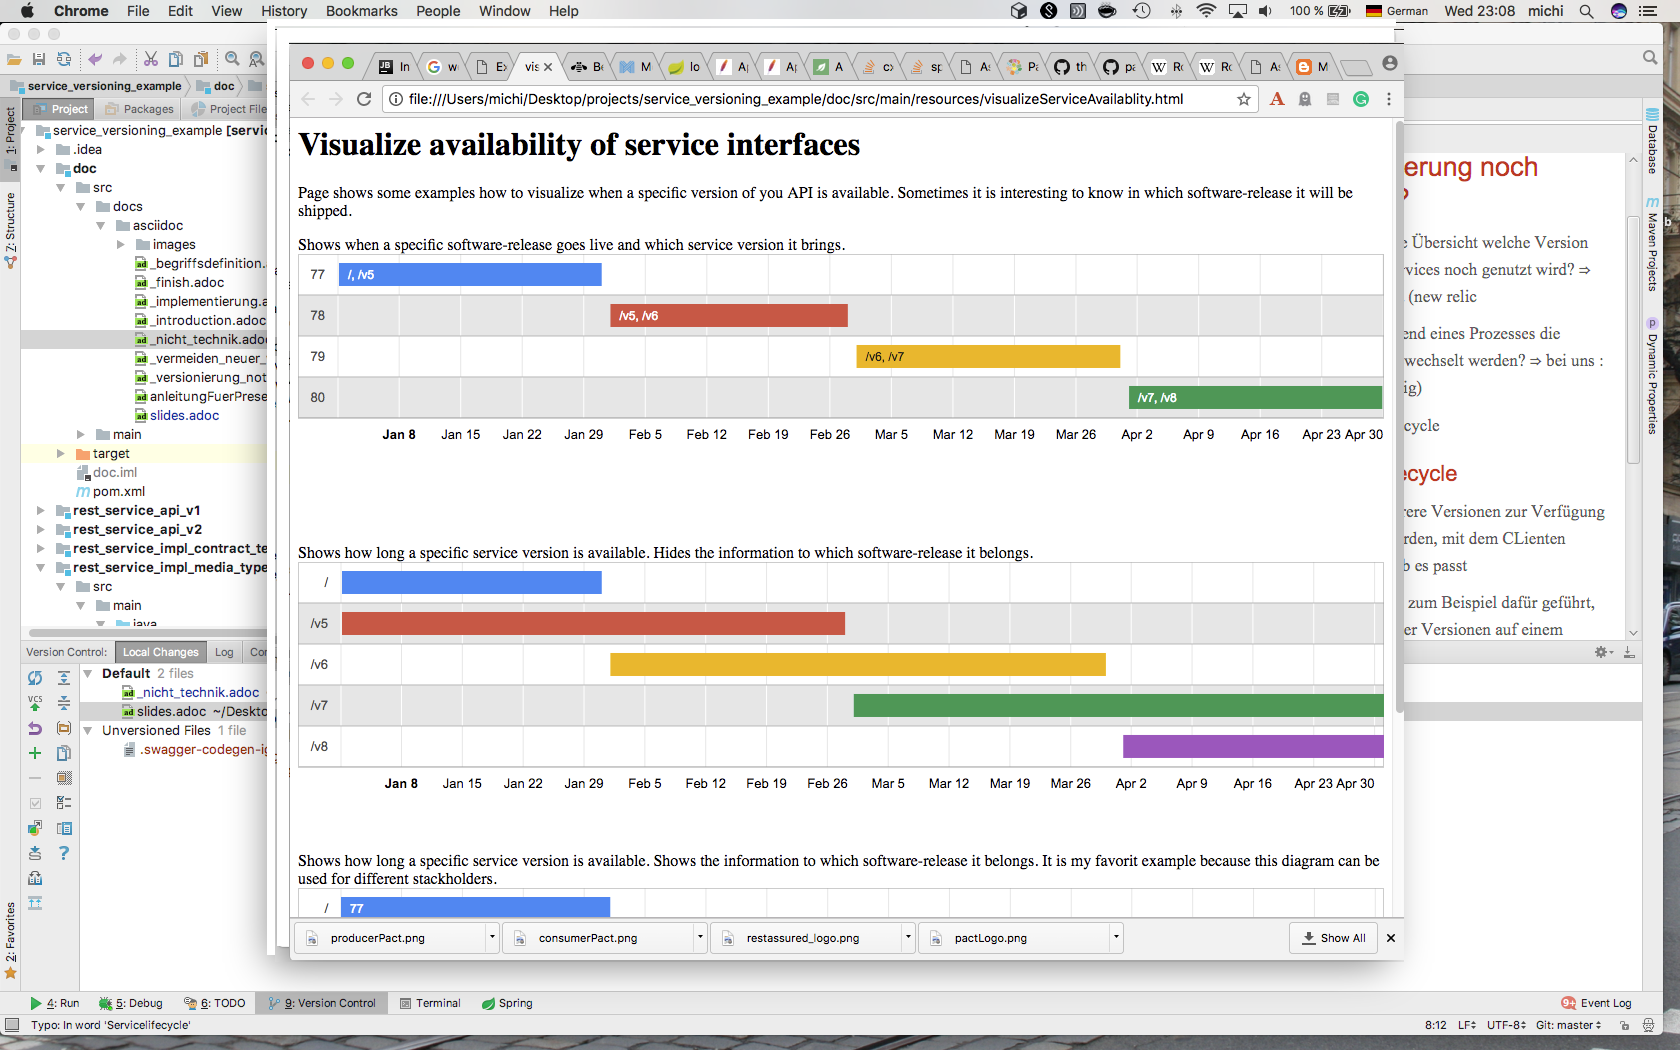
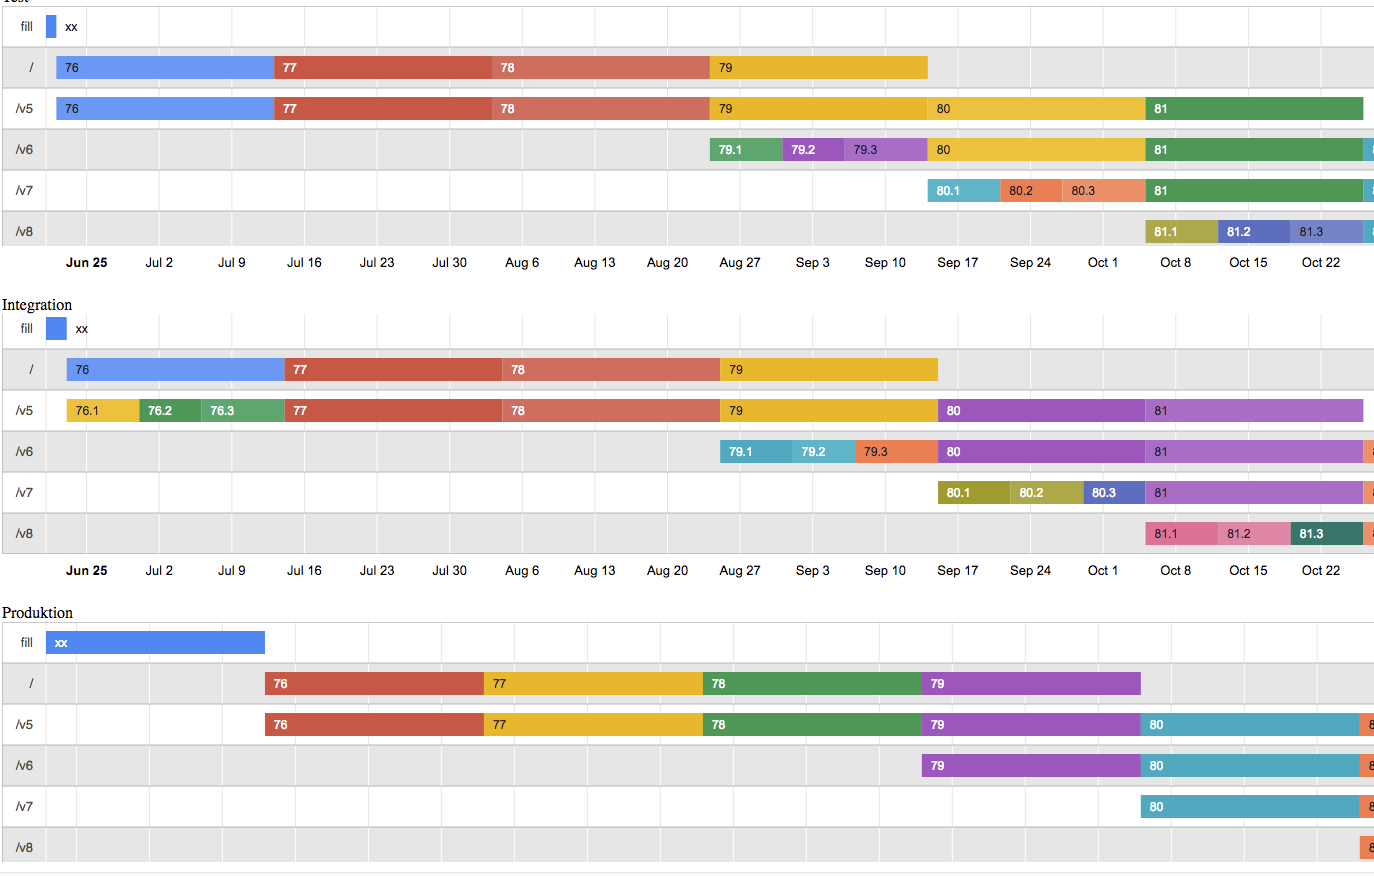
polishing

diff --git a/doc/src/main/resources/visualizeServiceAvailablity.html b/doc/src/main/resources/visualizeServiceAvailablity.html
@@ -5,49 +5,11 @@
         google.charts.load('current', {'packages': ['timeline']});
         google.charts.setOnLoadCallback(drawChart);
         function drawChart() {
-            draw1('eins');
-            draw2('zwei');
-            draw3('drei');
+            draw3('test');
+			drawTest('integration');
+			drawIntegration('produktion');
         }
 
-        function draw1(_environment) {
-            var container = document.getElementById(_environment);
-            var chart = new google.visualization.Timeline(container);
-            var dataTable = new google.visualization.DataTable();
-
-            dataTable.addColumn({type: 'string', id: 'release'});
-            dataTable.addColumn({type: 'string', id: 'available_versions'});
-            dataTable.addColumn({type: 'date', id: 'Start'});
-            dataTable.addColumn({type: 'date', id: 'End'});
-
-            dataTable.addRows([
-                ['77', '/, /v5', new Date("2017-01-01"), new Date("2017-01-31")],
-                ['78', '/v5, /v6', new Date("2017-02-01"), new Date("2017-02-28")],
-                ['79', '/v6, /v7', new Date("2017-03-01"), new Date("2017-03-31")],
-                ['80', '/v7, /v8', new Date("2017-04-01"), new Date("2017-04-30")]]);
-
-            chart.draw(dataTable);
-        }
-        function draw2(_environment) {
-            var container = document.getElementById(_environment);
-            var chart = new google.visualization.Timeline(container);
-            var dataTable = new google.visualization.DataTable();
-
-            dataTable.addColumn({type: 'string', id: 'release'});
-            dataTable.addColumn({type: 'string', id: 'available_versions'});
-            dataTable.addColumn({type: 'date', id: 'Start'});
-            dataTable.addColumn({type: 'date', id: 'End'});
-
-            dataTable.addRows([
-                ['/', '', new Date("2017-01-01"), new Date("2017-01-31")],
-                ['/v5', '', new Date("2017-01-01"), new Date("2017-02-28")],
-                ['/v6', '', new Date("2017-02-01"), new Date("2017-03-30")],
-                ['/v7', '', new Date("2017-03-01"), new Date("2017-04-31")],
-                ['/v8', '', new Date("2017-04-01"), new Date("2017-04-31")]
-            ]);
-
-            chart.draw(dataTable);
-        }
         function draw3(_environment) {
             var container = document.getElementById(_environment);
             var chart = new google.visualization.Timeline(container);
@@ -59,14 +21,41 @@
             dataTable.addColumn({type: 'date', id: 'End'});
 
             dataTable.addRows([
-                ['/', '77', new Date("2017-01-01"), new Date("2017-01-31T23:59:59")],
-                ['/v5', '77', new Date("2017-01-01"), new Date("2017-01-31T23:59:59")],
-                ['/v5', '78', new Date("2017-02-01"), new Date("2017-02-28T23:59:59")],
-                ['/v6', '78', new Date("2017-02-01"), new Date("2017-02-28T23:59:59")],
-                ['/v6', '79', new Date("2017-03-01"), new Date("2017-03-31T23:59:59")],
-                ['/v7', '79', new Date("2017-03-01"), new Date("2017-03-31T23:59:59")],
-                ['/v7', '80', new Date("2017-04-01"), new Date("2017-04-30T23:59:59")],
-                ['/v8', '80', new Date("2017-04-01"), new Date("2017-04-30T23:59:59")]
+                ['fill', 'xx', new Date("2017-06-21"), new Date("2017-06-22")],
+                ['/', '76', new Date("2017-06-22"), new Date("2017-07-13")],
+                ['/', '77', new Date("2017-07-13"), new Date("2017-08-03")],
+                ['/', '78', new Date("2017-08-03"), new Date("2017-08-24")],
+				['/', '79', new Date("2017-08-24"), new Date("2017-09-14")],
+
+                ['/v5', '76', new Date("2017-06-22"), new Date("2017-07-13")],
+                ['/v5', '77', new Date("2017-07-13"), new Date("2017-08-03")],
+                ['/v5', '78', new Date("2017-08-03"), new Date("2017-08-24")],
+				['/v5', '79', new Date("2017-08-24"), new Date("2017-09-14")],
+                ['/v5', '80', new Date("2017-09-14"), new Date("2017-10-05")],
+                ['/v5', '81', new Date("2017-10-05"), new Date("2017-10-26")],
+
+                ['/v6', '79.1', new Date("2017-08-24"), new Date("2017-08-31")],
+                ['/v6', '79.2', new Date("2017-08-31"), new Date("2017-09-06")],
+                ['/v6', '79.3', new Date("2017-09-06"), new Date("2017-09-14")],
+                ['/v6', '80', new Date("2017-09-14"), new Date("2017-10-05")],
+                ['/v6', '81', new Date("2017-10-05"), new Date("2017-10-26")],
+                ['/v6', '82', new Date("2017-10-26"), new Date("2017-11-16")],
+
+                ['/v7', '80.1', new Date("2017-09-14"), new Date("2017-09-21")],
+                ['/v7', '80.2', new Date("2017-09-21"), new Date("2017-09-27")],
+                ['/v7', '80.3', new Date("2017-09-27"), new Date("2017-10-05")],
+                ['/v7', '81', new Date("2017-10-05"), new Date("2017-10-26")],
+                ['/v7', '82', new Date("2017-10-26"), new Date("2017-11-16")],
+                ['/v7', '83', new Date("2017-11-16"), new Date("2017-12-07")],
+
+				['/v8', '81.1', new Date("2017-10-05"), new Date("2017-10-12")],
+                ['/v8', '81.2', new Date("2017-10-12"), new Date("2017-10-19")],
+                ['/v8', '81.3', new Date("2017-10-19"), new Date("2017-10-26")],
+                ['/v8', '82', new Date("2017-10-26"), new Date("2017-11-16")],
+                ['/v8', '83', new Date("2017-11-16"), new Date("2017-12-07")],
+                ['/v8', '84', new Date("2017-12-07"), new Date("2017-12-28")],
+
+				['fill', 'xx', new Date("2017-12-28"), new Date("2017-12-31")]
             ]);
 
             var options = {
@@ -76,7 +65,158 @@
 
             chart.draw(dataTable, options);
         }
+		
+		function drawTest(_environment) {
+            var container = document.getElementById(_environment);
+            var chart = new google.visualization.Timeline(container);
+            var dataTable = new google.visualization.DataTable();
+
+            dataTable.addColumn({type: 'string', id: 'release'});
+            dataTable.addColumn({type: 'string', id: 'available_versions'});
+            dataTable.addColumn({type: 'date', id: 'Start'});
+            dataTable.addColumn({type: 'date', id: 'End'});
+
+            dataTable.addRows([
+			    ['fill', 'xx', new Date("2017-06-21"), new Date("2017-06-23")],
+                ['/', '76', new Date("2017-06-23"), new Date("2017-07-14")],
+                ['/', '77', new Date("2017-07-14"), new Date("2017-08-04")],
+                ['/', '78', new Date("2017-08-04"), new Date("2017-08-25")],
+				['/', '79', new Date("2017-08-25"), new Date("2017-09-15")],
+
+                ['/v5', '76.1', new Date("2017-06-23"), new Date("2017-06-30")],
+                ['/v5', '76.2', new Date("2017-06-30"), new Date("2017-07-06")],
+                ['/v5', '76.3', new Date("2017-07-06"), new Date("2017-07-14")],
+				['/v5', '77', new Date("2017-07-14"), new Date("2017-08-04")],
+                ['/v5', '78', new Date("2017-08-04"), new Date("2017-08-25")],
+                ['/v5', '79', new Date("2017-08-25"), new Date("2017-09-15")],
+                ['/v5', '80', new Date("2017-09-15"), new Date("2017-10-05")],
+                ['/v5', '81', new Date("2017-10-05"), new Date("2017-10-26")],
+
+                ['/v6', '79.1', new Date("2017-08-25"), new Date("2017-09-01")],
+                ['/v6', '79.2', new Date("2017-09-01"), new Date("2017-09-07")],
+                ['/v6', '79.3', new Date("2017-09-07"), new Date("2017-09-15")],
+                ['/v6', '80', new Date("2017-09-15"), new Date("2017-10-05")],
+                ['/v6', '81', new Date("2017-10-05"), new Date("2017-10-26")],
+                ['/v6', '82', new Date("2017-10-26"), new Date("2017-11-16")],
+
+				['/v7', '80.1', new Date("2017-09-15"), new Date("2017-09-22")],
+                ['/v7', '80.2', new Date("2017-09-22"), new Date("2017-09-29")],
+                ['/v7', '80.3', new Date("2017-09-29"), new Date("2017-10-05")],
+                ['/v7', '81', new Date("2017-10-05"), new Date("2017-10-26")],
+                ['/v7', '82', new Date("2017-10-26"), new Date("2017-11-16")],
+                ['/v7', '83', new Date("2017-11-16"), new Date("2017-12-07")],
+
+                ['/v8', '81.1', new Date("2017-10-05"), new Date("2017-10-12")],
+                ['/v8', '81.2', new Date("2017-10-12"), new Date("2017-10-19")],
+                ['/v8', '81.3', new Date("2017-10-19"), new Date("2017-10-26")],
+                ['/v8', '82', new Date("2017-10-26"), new Date("2017-11-16")],
+                ['/v8', '83', new Date("2017-11-16"), new Date("2017-12-07")],
+
+				['fill', 'xx', new Date("2017-12-07"), new Date("2017-12-31")]
+				
+            ]);
+
+            var options = {
+                timeline: {rowLabelStyle: {fontName: 'Helvetica'}},
+                avoidOverlappingGridLines: false
+            };
+
+            chart.draw(dataTable, options);
+        }
+		
+		function drawIntegration(_environment) {
+            var container = document.getElementById(_environment);
+            var chart = new google.visualization.Timeline(container);
+            var dataTable = new google.visualization.DataTable();
+
+            dataTable.addColumn({type: 'string', id: 'release'});
+            dataTable.addColumn({type: 'string', id: 'available_versions'});
+            dataTable.addColumn({type: 'date', id: 'Start'});
+            dataTable.addColumn({type: 'date', id: 'End'});
+
+            dataTable.addRows([
+                ['fill', 'xx', new Date("2017-06-22"), new Date("2017-07-13")],
+                ['/', '76', new Date("2017-07-13"), new Date("2017-08-03")],
+                ['/', '77', new Date("2017-08-03"), new Date("2017-08-24")],
+                ['/', '78', new Date("2017-08-24"), new Date("2017-09-14")],
+				['/', '79', new Date("2017-09-14"), new Date("2017-10-05")],
+
+                ['/v5', '76', new Date("2017-07-13"), new Date("2017-08-03")],
+                ['/v5', '77', new Date("2017-08-03"), new Date("2017-08-24")],
+                ['/v5', '78', new Date("2017-08-24"), new Date("2017-09-14")],
+                ['/v5', '79', new Date("2017-09-14"), new Date("2017-10-05")],
+                ['/v5', '80', new Date("2017-10-05"), new Date("2017-10-26")],
+                ['/v5', '81', new Date("2017-10-26"), new Date("2017-11-16")],
+
+                ['/v6', '79', new Date("2017-09-14"), new Date("2017-10-05")],
+                ['/v6', '80', new Date("2017-10-05"), new Date("2017-10-26")],
+                ['/v6', '81', new Date("2017-10-26"), new Date("2017-11-16")],
+                ['/v6', '82', new Date("2017-11-16"), new Date("2017-11-30")],
+
+				['/v7', '80', new Date("2017-10-05"), new Date("2017-10-26")],
+                ['/v7', '81', new Date("2017-10-26"), new Date("2017-11-16")],
+                ['/v7', '82', new Date("2017-11-16"), new Date("2017-11-30")],
+
+                ['/v8', '81', new Date("2017-10-26"), new Date("2017-11-16")],
+                ['/v8', '82', new Date("2017-11-16"), new Date("2017-12-07")],
+				            
+				['fill', 'xx', new Date("2017-12-07"), new Date("2017-12-31")]
+            ]);
+
+            var options = {
+                timeline: {rowLabelStyle: {fontName: 'Helvetica'}},
+                avoidOverlappingGridLines: false
+            };
+
+            chart.draw(dataTable, options);
+        }
+		
+		function drawProd(_environment) {
+            var container = document.getElementById(_environment);
+            var chart = new google.visualization.Timeline(container);
+            var dataTable = new google.visualization.DataTable();
+
+            dataTable.addColumn({type: 'string', id: 'release'});
+            dataTable.addColumn({type: 'string', id: 'available_versions'});
+            dataTable.addColumn({type: 'date', id: 'Start'});
+            dataTable.addColumn({type: 'date', id: 'End'});
+
+            dataTable.addRows([
+                ['fill', 'xx', new Date("2017-06-22"), new Date("2017-08-08")],
+                ['/', '76', new Date("2017-08-08"), new Date("2017-08-29")],
+                ['/', '77', new Date("2017-08-29"), new Date("2017-09-19")],
+                ['/', '78', new Date("2017-09-19"), new Date("2017-10-10")],
+				['/', '79', new Date("2017-10-10"), new Date("2017-10-31")],
+
+                ['/v5', '76', new Date("2017-08-08"), new Date("2017-08-29")],
+				['/v5', '77', new Date("2017-08-29"), new Date("2017-09-19")],
+                ['/v5', '78', new Date("2017-09-19"), new Date("2017-10-10")],
+                ['/v5', '79', new Date("2017-10-10"), new Date("2017-10-31")],
+                ['/v5', '80', new Date("2017-10-31"), new Date("2017-11-21")],
+                ['/v5', '81', new Date("2017-11-21"), new Date("2017-11-30")],
+
+				['/v6', '79', new Date("2017-10-10"), new Date("2017-10-31")],
+                ['/v6', '80', new Date("2017-10-31"), new Date("2017-11-21")],
+                ['/v6', '81', new Date("2017-11-21"), new Date("2017-11-30")],
+
+                ['/v7', '80', new Date("2017-10-31"), new Date("2017-11-21")],
+                ['/v7', '81', new Date("2017-11-21"), new Date("2017-11-30")],
+
+            ]);
+
+            var options = {
+                timeline: {rowLabelStyle: {fontName: 'Helvetica'}},
+                avoidOverlappingGridLines: false
+            };
+
+            chart.draw(dataTable, options);
+        }
+		
     </script>
+	
+	
+	
+	
 </head>
 <body>
 <h1>Visualize availability of service interfaces</h1>
@@ -84,21 +224,11 @@
     Page shows some examples how to visualize when a specific version of you API is available.
     Sometimes it is interesting to know in which software-release it will be shipped.
 </p>
-
-<div>
-    Shows when a specific software-release goes live and which service version it brings.
-</div>
-<div id="eins" style="height: 290px;"></div>
-<div>
-    Shows how long a specific service version is available.
-    Hides the information to which software-release it belongs.
-</div>
-<div id="zwei" style="height: 290px;"></div>
-<div>
-    Shows how long a specific service version is available.
-    Shows the information to which software-release it belongs.
-    It is my favorit example because this diagram can be used for different stackholders.
-</div>
-<div id="drei" style="height: 290px;"></div>
+<div>Test</div>
+<div id="test" style="height: 290px;"></div>
+<div>Integration</div>
+<div id="integration" style="height: 290px;"></div>
+<div>Produktion</div>
+<div id="produktion" style="height: 290px;"></div>
 </body>
 </html>
